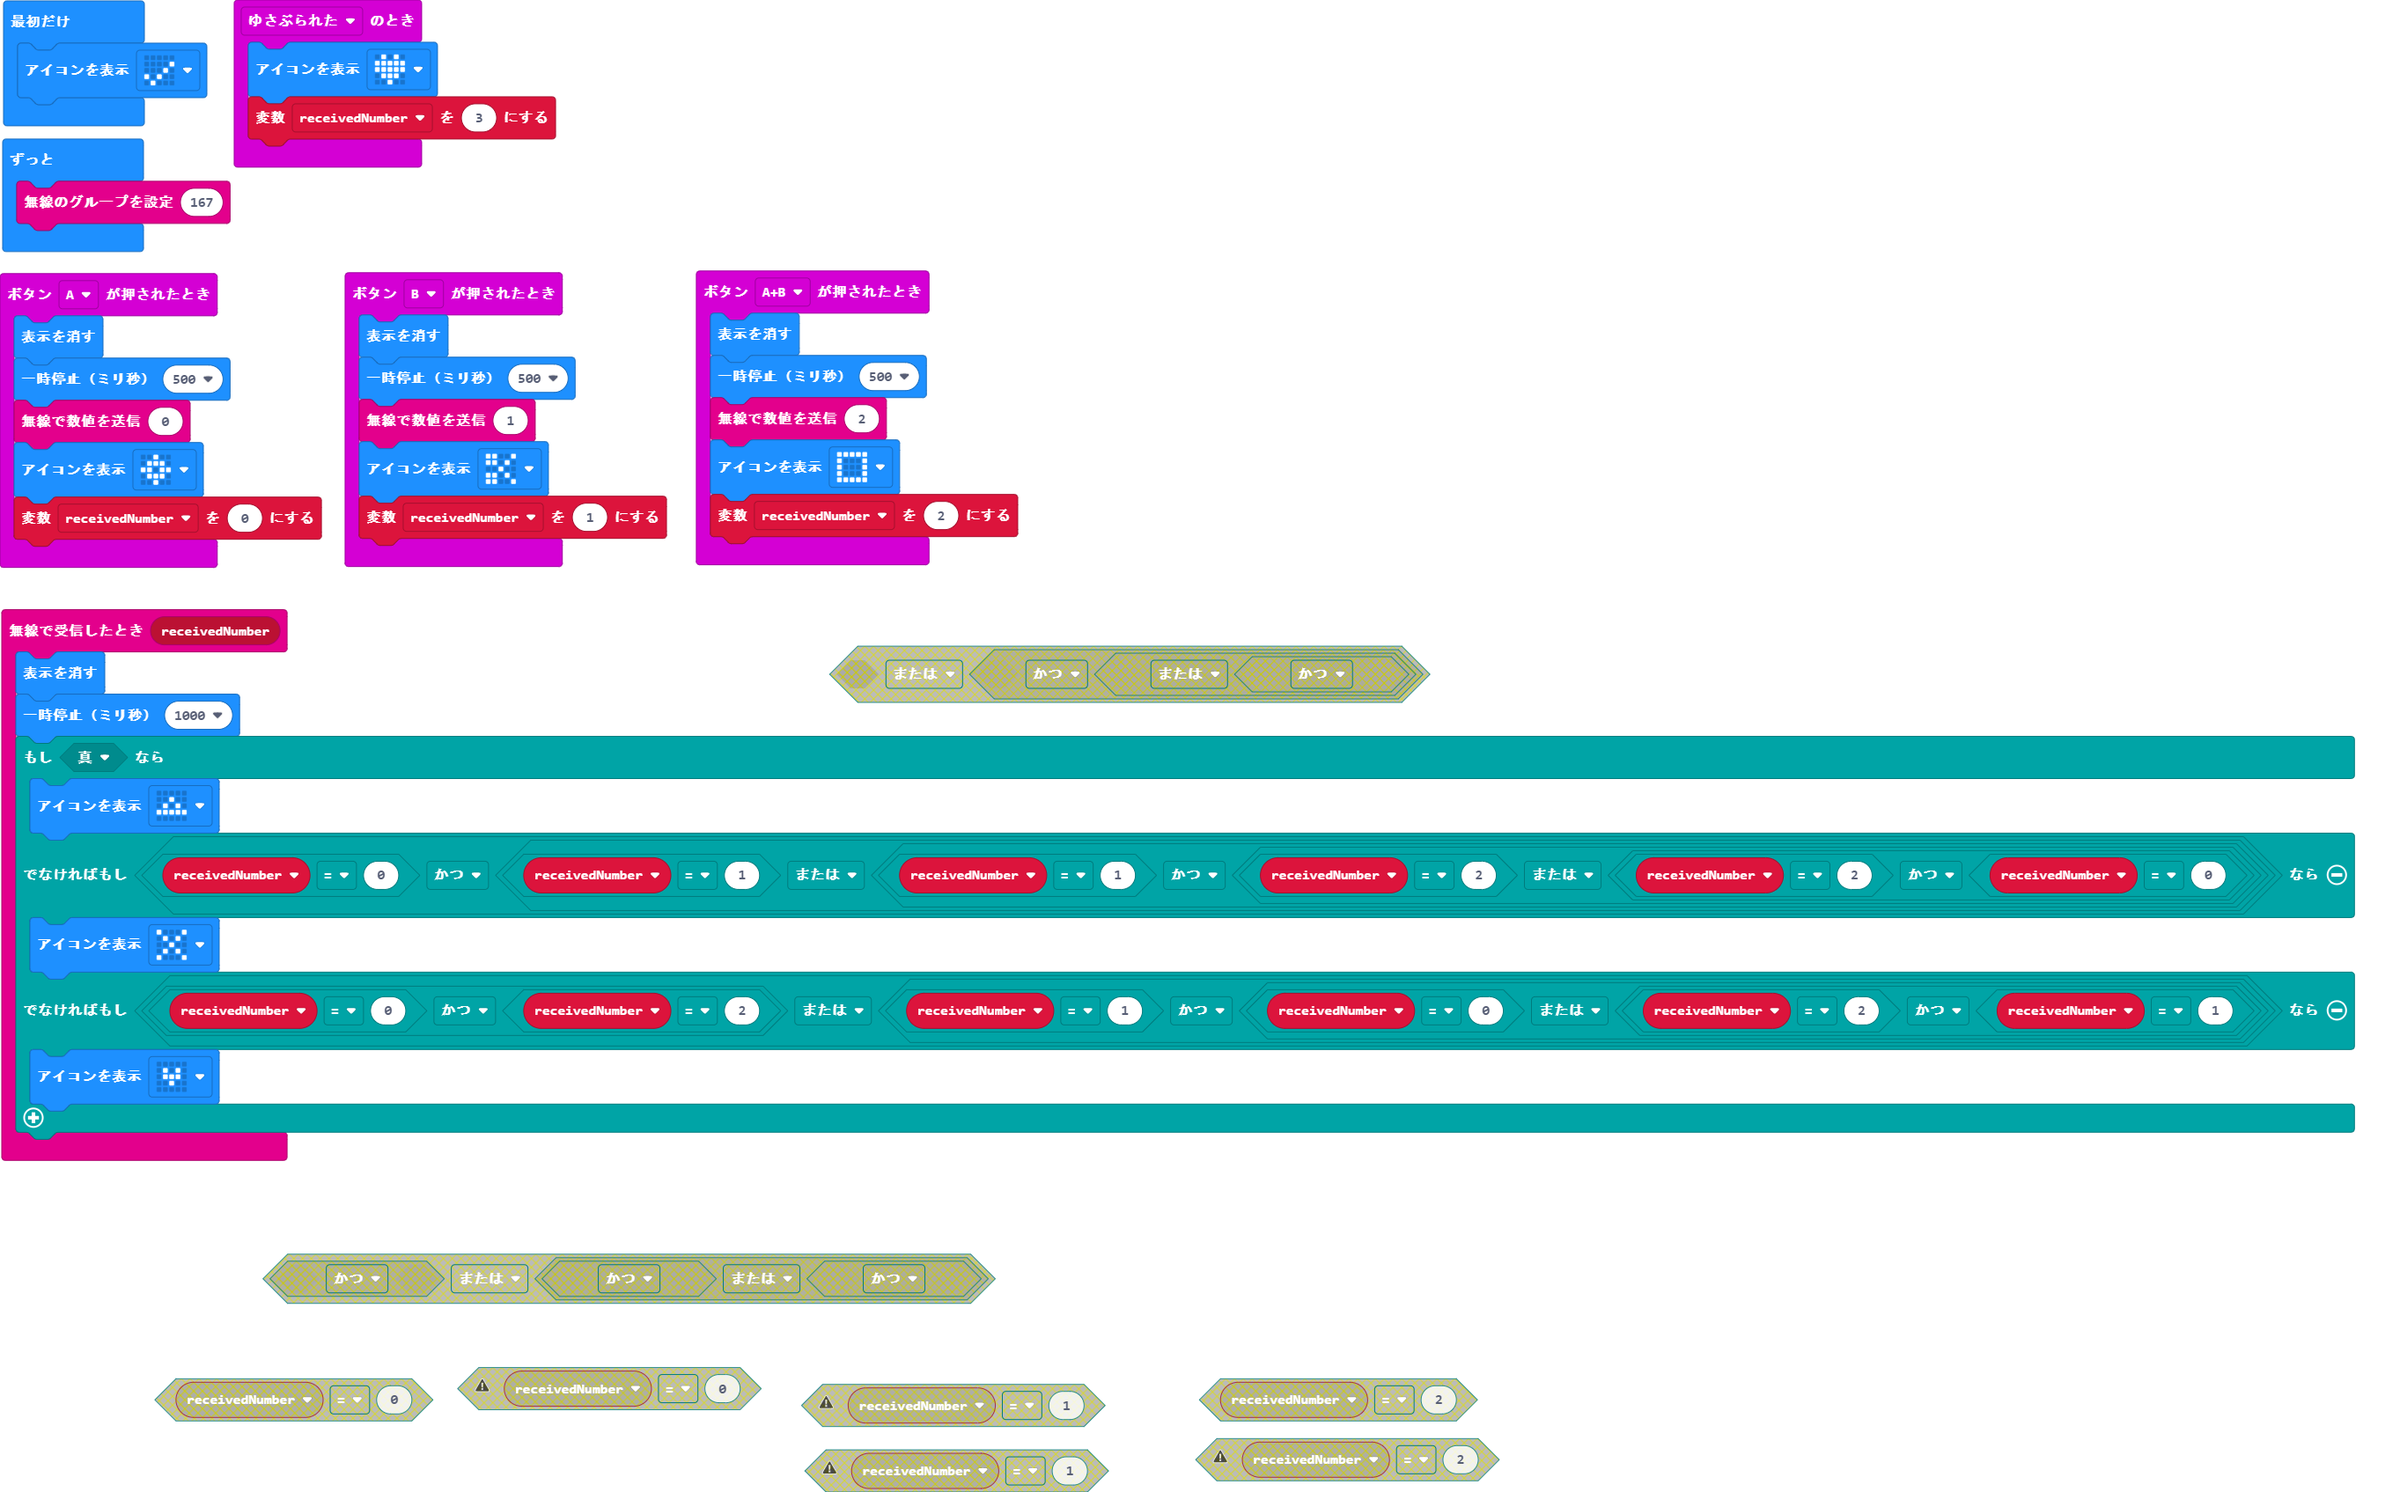
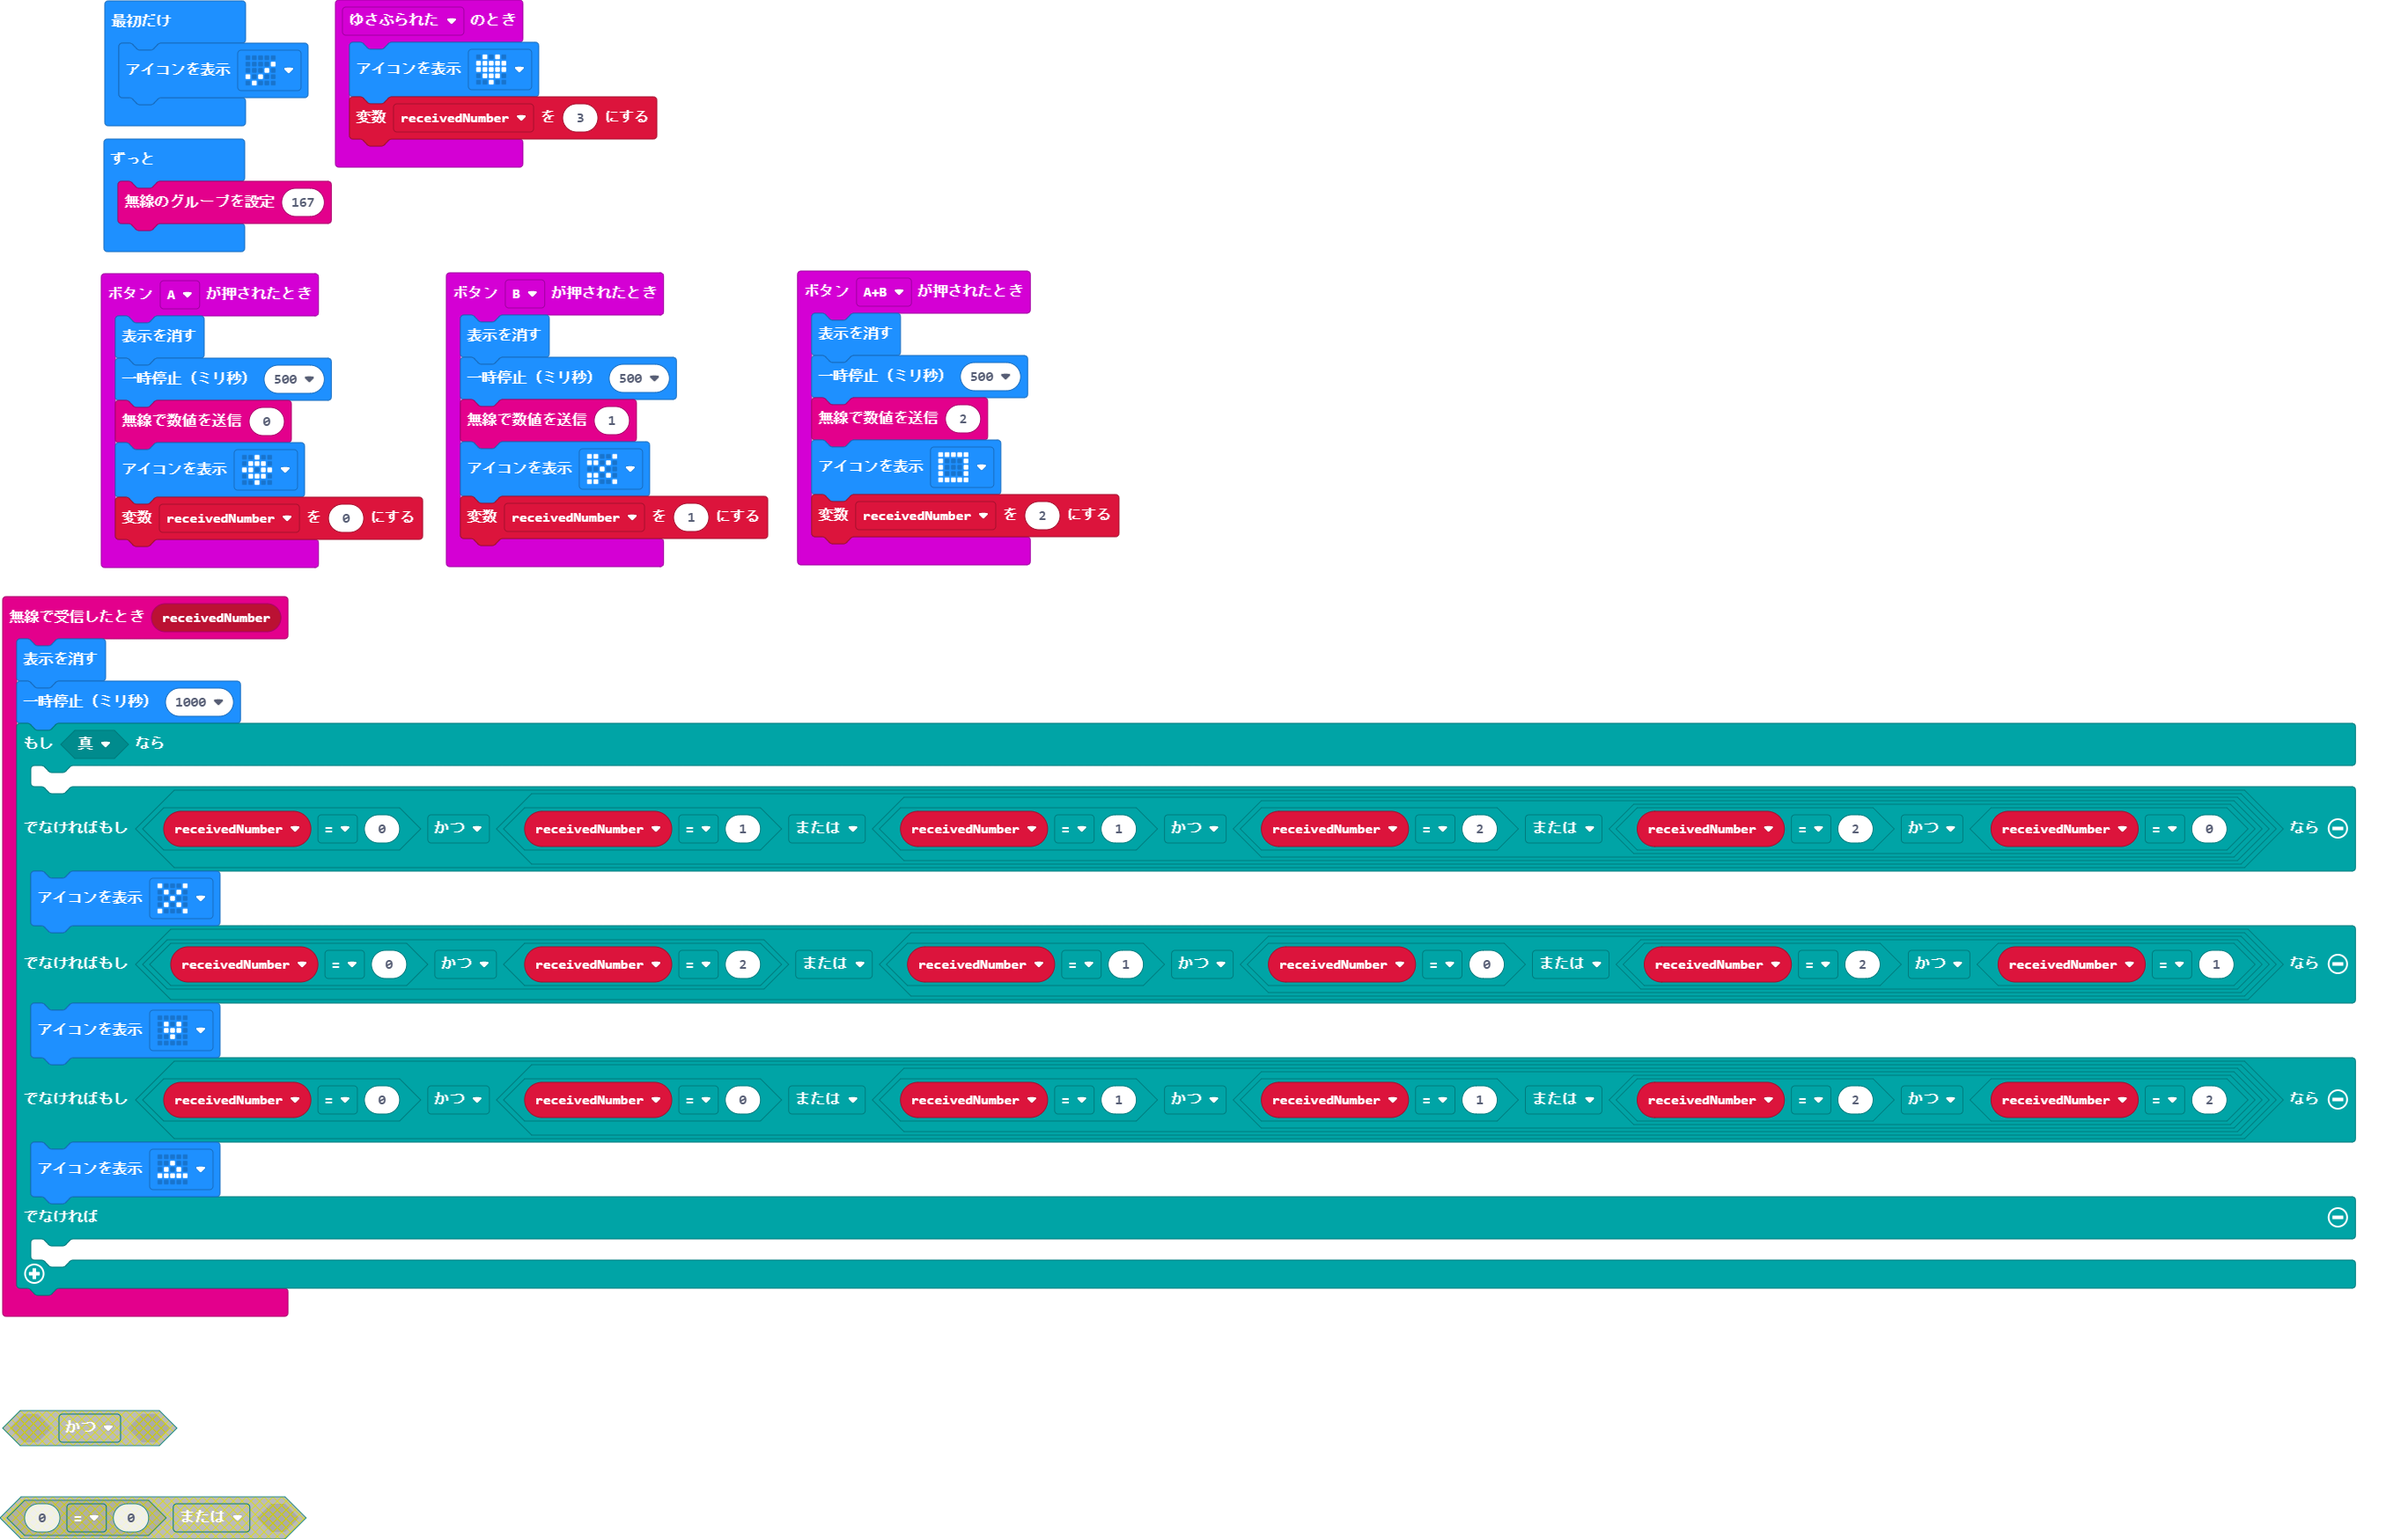
Update main.blocks, main.ts

diff --git a/main.ts b/main.ts
@@ -2,11 +2,15 @@ radio.onReceivedNumber(function (receivedNumber) {
     basic.clearScreen()
     basic.pause(1000)
     if (true) {
-        basic.showIcon(IconNames.Triangle)
+    	
     } else if (receivedNumber == 0 && (receivedNumber == 1 || receivedNumber == 1 && (receivedNumber == 2 || receivedNumber == 2 && receivedNumber == 0))) {
         basic.showIcon(IconNames.No)
     } else if (receivedNumber == 0 && receivedNumber == 2 || receivedNumber == 1 && (receivedNumber == 0 || receivedNumber == 2 && receivedNumber == 1)) {
         basic.showIcon(IconNames.SmallHeart)
+    } else if (receivedNumber == 0 && (receivedNumber == 0 || receivedNumber == 1 && (receivedNumber == 1 || receivedNumber == 2 && receivedNumber == 2))) {
+        basic.showIcon(IconNames.Triangle)
+    } else {
+    	
     }
 })
 input.onButtonPressed(Button.A, function () {
